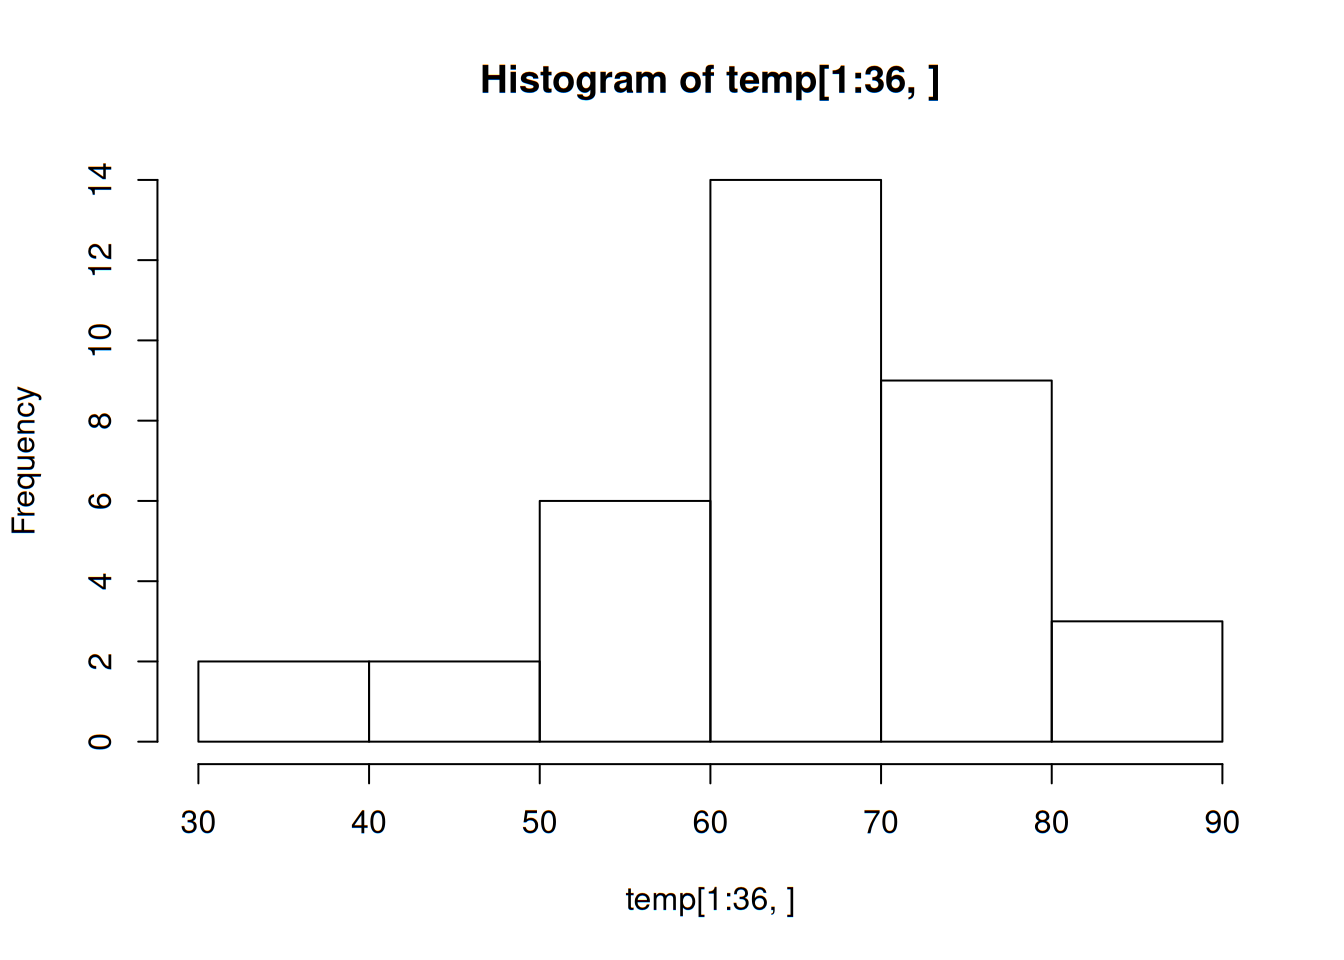
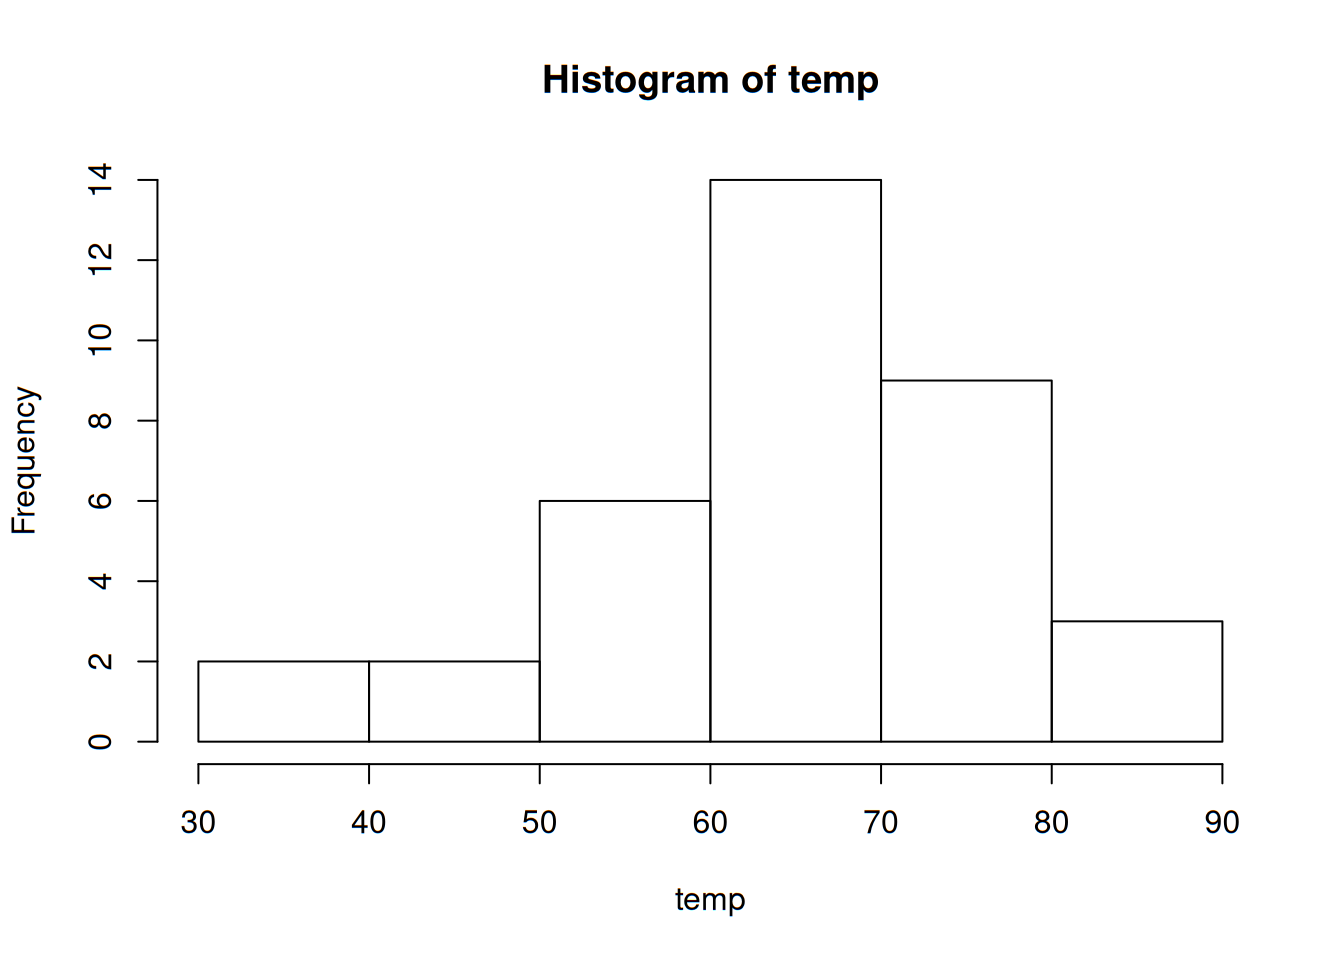
Codigo corregido

Changed region(s): [[0.3438, 0.0625, 0.7188, 0.125], [0.4688, 0.9062, 0.5938, 0.9688]]

diff --git a/docs/Descriptiva.html b/docs/Descriptiva.html
@@ -336,124 +336,8 @@ A las características podemos dividirlas en dos: <strong>categóricas</strong> 
 <div id="estadistica-descriptiva-en-accion" class="section level2">
 <h2>Estadística Descriptiva en acción</h2>
 <p>La tragedia que sufrió el transbordador espacial Challenger y sus astronautas en 1986 condujo a varios estudios para investigar las razones de la falla de la misión. La atención se enfocó de inmediato en el comportamiento de los sellos anulares del motor del cohete. He aquí datos derivados de observaciones en x = temperatura del sello anular (°F) en cada encendido de prueba o lanzamiento del motor del cohete del transbordador (Presidential Commission on the Space Shuttle Challenger Accident, Vol. 1, 1986: 129-131). Los datos se presentan en una sola columna para dejar en claro que se refieren a datos univariables. Cabe mencionar que los datos se encuentran en la carpeta <em>datasets</em> del repositorio de la asignatura en <a href="https://github.com/LuisEMendoza/RMarkdown-test/tree/master/datasets">GitHub</a>.</p>
-<table>
-<caption>Temperaturas (°F)</caption>
-<thead>
-<tr class="header">
-<th align="right">x</th>
-</tr>
-</thead>
-<tbody>
-<tr class="odd">
-<td align="right">84</td>
-</tr>
-<tr class="even">
-<td align="right">49</td>
-</tr>
-<tr class="odd">
-<td align="right">61</td>
-</tr>
-<tr class="even">
-<td align="right">40</td>
-</tr>
-<tr class="odd">
-<td align="right">83</td>
-</tr>
-<tr class="even">
-<td align="right">67</td>
-</tr>
-<tr class="odd">
-<td align="right">45</td>
-</tr>
-<tr class="even">
-<td align="right">66</td>
-</tr>
-<tr class="odd">
-<td align="right">70</td>
-</tr>
-<tr class="even">
-<td align="right">69</td>
-</tr>
-<tr class="odd">
-<td align="right">80</td>
-</tr>
-<tr class="even">
-<td align="right">58</td>
-</tr>
-<tr class="odd">
-<td align="right">68</td>
-</tr>
-<tr class="even">
-<td align="right">60</td>
-</tr>
-<tr class="odd">
-<td align="right">67</td>
-</tr>
-<tr class="even">
-<td align="right">72</td>
-</tr>
-<tr class="odd">
-<td align="right">73</td>
-</tr>
-<tr class="even">
-<td align="right">70</td>
-</tr>
-<tr class="odd">
-<td align="right">57</td>
-</tr>
-<tr class="even">
-<td align="right">63</td>
-</tr>
-<tr class="odd">
-<td align="right">70</td>
-</tr>
-<tr class="even">
-<td align="right">78</td>
-</tr>
-<tr class="odd">
-<td align="right">52</td>
-</tr>
-<tr class="even">
-<td align="right">67</td>
-</tr>
-<tr class="odd">
-<td align="right">53</td>
-</tr>
-<tr class="even">
-<td align="right">67</td>
-</tr>
-<tr class="odd">
-<td align="right">75</td>
-</tr>
-<tr class="even">
-<td align="right">61</td>
-</tr>
-<tr class="odd">
-<td align="right">70</td>
-</tr>
-<tr class="even">
-<td align="right">81</td>
-</tr>
-<tr class="odd">
-<td align="right">76</td>
-</tr>
-<tr class="even">
-<td align="right">79</td>
-</tr>
-<tr class="odd">
-<td align="right">75</td>
-</tr>
-<tr class="even">
-<td align="right">76</td>
-</tr>
-<tr class="odd">
-<td align="right">58</td>
-</tr>
-<tr class="even">
-<td align="right">31</td>
-</tr>
-</tbody>
-</table>
+<pre><code>##  [1] 84 49 61 40 83 67 45 66 70 69 80 58 68 60 67 72 73 70 57 63 70 78 52
+## [24] 67 53 67 75 61 70 81 76 79 75 76 58 31</code></pre>
 <p>A simple vista, los datos así mostrados no dicen gran cosa. Para ello es deseable organizarlos de manera que muestren algún comportamiento en particular. Una de las maneras más burdas es el <strong>diagrama de tallo y hojas</strong>, el cual se muestra a continuación:</p>
 <pre><code>## 
 ##   The decimal point is 1 digit(s) to the right of the |
@@ -485,17 +369,20 @@ A las características podemos dividirlas en dos: <strong>categóricas</strong> 
 </ol>
 <p>Una gráfica de tallos y hojas da información sobre los siguientes aspectos de los datos: - Identificación de un valor típico o representativo. - Grado de dispersión en torno al valor típico. - Presencia de brechas en los datos. - Grado de simetría en la distribución de los valores. - Número y localización de crestas. - Presencia de valores afuera de la gráfica.</p>
 <p>A modo de práctica, tomemos los siguientes valores que representan el flujo de agua en regaderas de Australia en litros por minuto, para <em>n = 130</em>. Se muestra también el código en <em>R</em> para mostrar y calcular el diagrama:</p>
-<pre class="r"><code>flujo &lt;- read.table(&quot;datasets/002-flujo.txt&quot;, header = FALSE)
-head(flujo)</code></pre>
-<pre><code>##     V1
-## 1  4.6
-## 2 12.3
-## 3  7.1
-## 4  7.0
-## 5  4.0
-## 6  9.2</code></pre>
+<pre class="r"><code>flujo &lt;- scan(&quot;datasets/002-flujo.txt&quot;)
+flujo</code></pre>
+<pre><code>##   [1]  4.6 12.3  7.1  7.0  4.0  9.2  6.7  6.9 11.5  5.1 11.2 10.5 14.3  8.0
+##  [15]  8.8  6.4  5.1  5.6  9.6  7.5  7.5  6.2  5.8  2.3  3.4 10.4  9.8  6.6
+##  [29]  3.7  6.4  8.3  6.5  7.6  9.3  9.2  7.3  5.0  6.3 13.8  6.2  5.4  4.8
+##  [43]  7.5  6.0  6.9 10.8  7.5  6.6  5.0  3.3  7.6  3.9 11.9  2.2 15.0  7.2
+##  [57]  6.1 15.3 18.9  7.2  5.4  5.5  4.3  9.0 12.7 11.3  7.4  5.0  3.5  8.2
+##  [71]  8.4  7.3 10.3 11.9  6.0  5.6  9.5  9.3 10.4  9.7  5.1  6.7 10.2  6.2
+##  [85]  8.4  7.0  4.8  5.6 10.5 14.6 10.8 15.5  7.5  6.4  3.4  5.5  6.6  5.9
+##  [99] 15.0  9.6  7.8  7.0  6.9  4.1  3.6 11.9  3.7  5.7  6.8 11.3  9.3  9.6
+## [113] 10.4  9.3  6.9  9.8  9.1 10.6  4.5  6.2  8.3  3.2  4.9  5.0  6.0  8.2
+## [127]  6.3  3.8  6.0  8.3</code></pre>
 <p>Construyamos nuestro diagrama:</p>
-<pre class="r"><code>stem(flujo[1:130,])</code></pre>
+<pre class="r"><code>stem(flujo)</code></pre>
 <pre><code>## 
 ##   The decimal point is at the |
 ## 
@@ -526,7 +413,7 @@ head(flujo)</code></pre>
 <div id="diagrama-de-puntos" class="section level3">
 <h3>Diagrama de puntos</h3>
 <p>Es un resumen atractivo de datos numéricos cuando el conjunto es razonablemente pequeño o existen pocos valores de datos distintos. Cada observación está representada por un punto sobre la ubicación correspondiente en una escala de medición horizontal. Cuando un valor ocurre más de una vez, existe un punto por cada ocurrencia y estos puntos se apilan verticalmente. Como con la gráfica de tallos y hojas, una gráfica de puntos da información sobre la localización, dispersión, extremos y brechas. Usemos como ejemplo el conjunto de las temperaturas del <em>Challenger</em>.</p>
-<pre class="r"><code>stripchart(temp[1:36,], method = &#39;stack&#39;)</code></pre>
+<pre class="r"><code>stripchart(temp, method = &#39;stack&#39;)</code></pre>
 <p><img src="Descriptiva_files/figure-html/unnamed-chunk-7-1.png" width="672" /></p>
 </div>
 <div id="tablas-de-frecuencia" class="section level3">

diff --git a/docs/Ayuda.html b/docs/Ayuda.html
@@ -332,13 +332,13 @@ $(document).ready(function () {
 <p>Para poder distinguir qué parte del documento es código y qué parte son resultados del mismo, la diferencia de apariencia es bastante notoria. El código tal como se captura en RStudio, se muestra así:</p>
 <pre class="r"><code>a &lt;- read.table(&quot;datasets/001-challenger.txt&quot;)</code></pre>
 <p>Mientras que la salida del programa siempre tendrá un par de almohadillas (#) al inicio de línea:</p>
-<pre><code>##                V1
-## 1 Temperatura(°F)
-## 2              84
-## 3              49
-## 4              61
-## 5              40
-## 6              83</code></pre>
+<pre><code>##   V1
+## 1 84
+## 2 49
+## 3 61
+## 4 40
+## 5 83
+## 6 67</code></pre>
 <p>Para finalizar esta sección, debo decir que la retroalimentación de estudiantes, profesores y usuarios en general, es agradecida e incluso deseada. El canal de comunicación es la plataforma de Google Classroom habilitada, o por medio del correo especificado en la página [inicial] (index.html). El ideal es ir mejorando la página con todas las aportaciones posibles.</p>
 </div>
 
